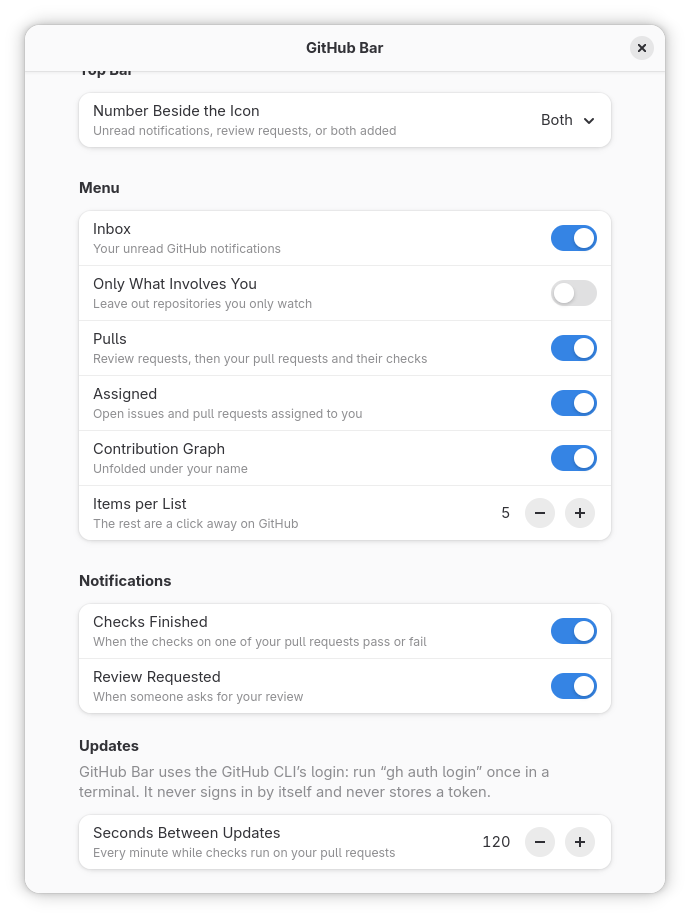
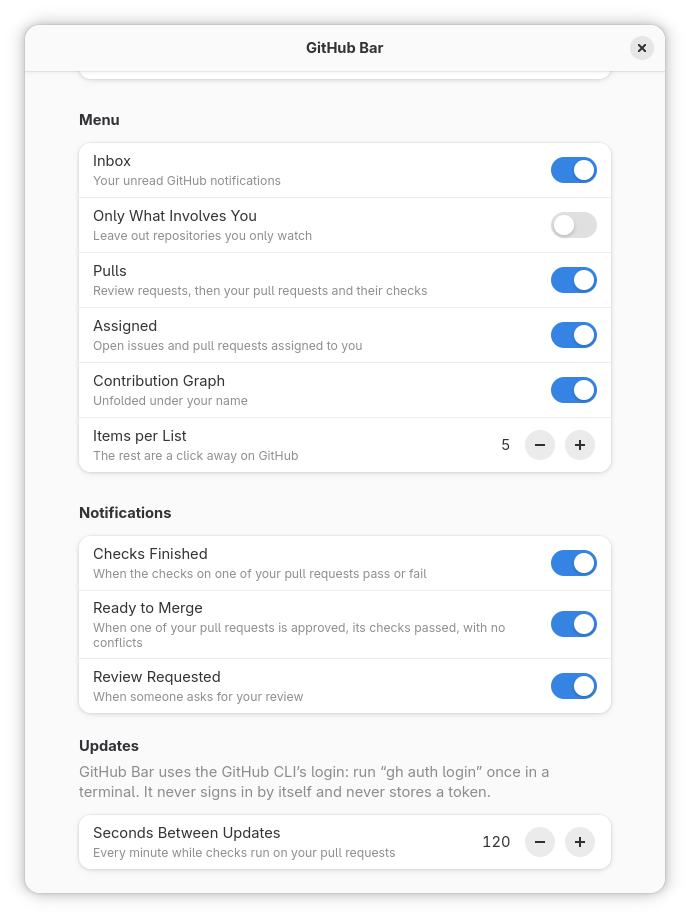
Notify when a pull request is ready to merge, and tag conflicts (#22)
Fixes #17

diff --git a/src/lib/app.js b/src/lib/app.js
@@ -209,22 +209,26 @@ export class GitHubBarApp {
                 for (const item of reviews.filter(review => !this._known.reviews.has(review.url)))
                     this._notify(`Review requested on ${item.repo}#${item.number}`, item.title, item.url);
             }
-            if (this._settings.get_boolean('notify-checks')) {
-                for (const pull of pulls) {
-                    const before = this._known.checks.get(pull.url);
-                    if (before?.oid !== pull.headOid || before.checks !== 'pending')
-                        continue;
+            const notifyReady = this._settings.get_boolean('notify-ready');
+            const notifyChecks = this._settings.get_boolean('notify-checks');
+            for (const pull of pulls) {
+                const before = this._known.pulls.get(pull.url);
+                const name = `${pull.repo}#${pull.number}`;
+                // Ready to merge says checks passed too, so it stands in for that notification.
+                if (notifyReady && before && pull.ready && !before.ready) {
+                    this._notify(`Ready to merge: ${name}`, pull.title, pull.url);
+                } else if (notifyChecks && before?.oid === pull.headOid && before.checks === 'pending') {
                     if (pull.checks === 'success')
-                        this._notify(`Checks passed on ${pull.repo}#${pull.number}`, pull.title, pull.url);
+                        this._notify(`Checks passed on ${name}`, pull.title, pull.url);
                     else if (pull.checks === 'failure')
-                        this._notify(`Checks failed on ${pull.repo}#${pull.number}`, pull.title, pull.url);
+                        this._notify(`Checks failed on ${name}`, pull.title, pull.url);
                 }
             }
         }
         this._known = {
             login: dashboard.user.login,
             reviews: new Set(reviews.map(review => review.url)),
-            checks: new Map(pulls.map(pull => [pull.url, {oid: pull.headOid, checks: pull.checks}])),
+            pulls: new Map(pulls.map(pull => [pull.url, {oid: pull.headOid, checks: pull.checks, ready: pull.ready}])),
         };
     }
 

diff --git a/src/lib/github.js b/src/lib/github.js
@@ -13,7 +13,7 @@ const QUERY = `query {
     issueCount nodes { ... on PullRequest { number title url updatedAt isDraft
       repository { nameWithOwner } author { login } } } }
   pulls: search(type: ISSUE, query: "is:open is:pr author:@me archived:false", first: 20) {
-    issueCount nodes { ... on PullRequest { number title url updatedAt isDraft reviewDecision
+    issueCount nodes { ... on PullRequest { number title url updatedAt isDraft reviewDecision mergeable
       repository { nameWithOwner }
       commits(last: 1) { nodes { commit { oid statusCheckRollup { state } } } } } } }
   assigned: search(type: ISSUE, query: "is:open assignee:@me archived:false", first: 20) {
@@ -48,9 +48,15 @@ const KINDS = {PullRequest: 'pull', Issue: 'issue'};
 
 const PATHS = {pulls: 'pull', issues: 'issues', commits: 'commit'};
 
+// Approved, checks passed or none, no conflicts, not a draft.
+function isReady(item) {
+    return !item.draft && !item.conflicts && item.review === 'approved' &&
+        (item.checks === 'success' || item.checks === null);
+}
+
 function parseItem(node) {
     const commit = node.commits?.nodes[0]?.commit;
-    return {
+    const item = {
         kind: node.__typename === 'Issue' ? 'issue' : 'pull',
         repo: node.repository.nameWithOwner,
         number: node.number,
@@ -62,7 +68,11 @@ function parseItem(node) {
         checks: CHECKS[commit?.statusCheckRollup?.state] ?? null,
         review: REVIEWS[node.reviewDecision] ?? null,
         headOid: commit?.oid ?? null,
+        // GitHub answers UNKNOWN while it works the merge out; that is not a conflict.
+        conflicts: node.mergeable === 'CONFLICTING',
     };
+    item.ready = isReady(item);
+    return item;
 }
 
 // A search node outside the fragment's type comes back as {}.

diff --git a/scripts/stand-in-http.js b/scripts/stand-in-http.js
@@ -26,6 +26,7 @@ const CHECKS = {
     'checks-pending': 'PENDING',
     'checks-passed': 'SUCCESS',
     'checks-failed': 'FAILURE',
+    'ready': 'SUCCESS',
 };
 
 function readState() {
@@ -138,15 +139,18 @@ function dashboard(state) {
             ]),
             pulls: search([
                 pull('stand-in/garden', 42, 'Water the seedlings on a timer', 8, {
-                    reviewDecision: 'REVIEW_REQUIRED',
+                    reviewDecision: state === 'ready' ? 'APPROVED' : 'REVIEW_REQUIRED',
+                    mergeable: 'MERGEABLE',
                     ...head('4b1d0c6e2f9a7d3b8e5c1a0f6d2b9e7c3a8f5d14', CHECKS[state] ?? 'PENDING'),
                 }),
                 pull('stand-in/lantern', 23, 'Dim the wick when the battery is low', 95, {
                     reviewDecision: 'APPROVED',
+                    mergeable: 'MERGEABLE',
                     ...head('9e3a7c1f5b2d8e6a0c4f7b1d3e9a5c2f8b6d0e13', 'SUCCESS'),
                 }),
                 pull('stand-in/garden', 39, 'Sort the beds by hours of sunlight', 300, {
                     reviewDecision: 'CHANGES_REQUESTED',
+                    mergeable: 'CONFLICTING',
                     ...head('2c8f6a0e4d1b7c9f3a5e8d2b6c0f4a7e1d9b3c58', 'FAILURE'),
                 }),
                 pull('stand-in/kettle', 7, 'Whistle at a lower pitch', 2880, {

diff --git a/src/lib/indicator.js b/src/lib/indicator.js
@@ -18,7 +18,7 @@ const DIM_OPACITY = 160;
 
 // Your pull requests that wait on you rather than on others.
 function needsYou(pull) {
-    return pull.checks === 'failure' || pull.review === 'changes';
+    return pull.checks === 'failure' || pull.review === 'changes' || pull.conflicts;
 }
 
 // Each tab lists one or more groups of the dashboard, and counts what waits on you there.
@@ -376,7 +376,13 @@ export const GitHubBarIndicator = GObject.registerClass({
         else if (entry.checks)
             icon.add_style_class_name(`github-bar-${entry.checks}`);
 
-        const tag = entry.draft ? 'Draft' : REVIEW_TAGS[entry.review];
+        let tag = REVIEW_TAGS[entry.review];
+        if (entry.draft)
+            tag = 'Draft';
+        else if (entry.conflicts)
+            tag = 'Conflicts';
+        else if (entry.ready)
+            tag = 'Ready to merge';
         const item = linkItem(icon, entry.title, [`${entry.repo} #${entry.number}`, ago(entry.updated)], tag);
         item.connect('activate', () => this.emit('open-url', entry.url));
         return item;

diff --git a/scripts/parsers.js b/scripts/parsers.js
@@ -56,6 +56,10 @@ print('\x1b[1mThe dashboard\x1b[0m — tests/fixtures/graphql.json');
     check('review CHANGES_REQUESTED', pulls.items[2].review, 'changes');
     check('no review decision', pulls.items[3].review, null);
     check('head commit', pulls.items[0].headOid, 'a1b2c3d');
+    check('CONFLICTING conflicts', pulls.items[0].conflicts, true);
+    check('approved and passed is ready', pulls.items[1].ready, true);
+    check('pending checks are not ready', pulls.items[0].ready, false);
+    check('a draft is not ready', pulls.items[2].ready, false);
     check('repo', pulls.items[0].repo, 'stand-in/garden');
     check('assigned issue kind', assigned.items[0].kind, 'issue');
     check('assigned pull kind', assigned.items[1].kind, 'pull');

diff --git a/src/prefs.js b/src/prefs.js
@@ -51,6 +51,8 @@ export default class GitHubBarPreferences extends ExtensionPreferences {
         const notify = new Adw.PreferencesGroup({title: 'Notifications'});
         this._addSwitch(notify, settings, 'notify-checks', 'Checks Finished',
             'When the checks on one of your pull requests pass or fail');
+        this._addSwitch(notify, settings, 'notify-ready', 'Ready to Merge',
+            'When one of your pull requests is approved, its checks passed, with no conflicts');
         this._addSwitch(notify, settings, 'notify-reviews', 'Review Requested',
             'When someone asks for your review');
         page.add(notify);

diff --git a/README.md b/README.md
@@ -17,18 +17,21 @@ GNOME Shell.
   beside a row (or Delete) marks it read without opening it. It can leave out
   what you only watch.
 - **Pulls**: open pull requests that ask for your review, then your own, each with its
-  checks (running, passed, failed) and review state. The tab counts what waits on you:
-  review requests, and your pull requests with failed checks or changes asked for. The
+  checks (running, passed, failed) and its state (Ready to merge, Needs changes,
+  Conflicts, Draft). The tab counts what waits on you:
+  review requests, and your pull requests with failed checks, changes asked for or
+  conflicts. The
   count turns red while checks have failed.
 - **Assigned**: open issues and pull requests assigned to you.
 - **Your contributions**: a click on your name unfolds the last weeks of your calendar, in
   the accent colour, and a link to your profile.
 - **Notifications on your desktop** when the checks on one of your pull requests finish,
-  and when someone asks for your review.
+  when one is ready to merge (approved, checks passed, no conflicts), and when someone
+  asks for your review.
 
 ![The top bar's right end: the pull request glyph and the count 8, beside the system icons.](docs/screenshots/top-bar-cropped.png)
 
-![The same menu with the profile unfolded, the contribution calendar in blue and Open Profile on GitHub under the name, and the Pulls tab selected (its count 3 in red): two review requests and four of your pull requests: one with checks running, one with checks passed and "Approved", one with checks failed and "Needs changes", and one "Draft".](docs/screenshots/menu-profile.png)
+![The same menu with the profile unfolded, the contribution calendar in blue and Open Profile on GitHub under the name, and the Pulls tab selected (its count 3 in red): two review requests and four of your pull requests: one with checks running, one with checks passed and "Ready to merge", one with checks failed and "Conflicts", and one "Draft".](docs/screenshots/menu-profile.png)
 
 ![A notification banner: "Checks passed on stand-in/garden#42", with the pull request's title "Water the seedlings on a timer".](docs/screenshots/notification.png)
 
@@ -88,12 +91,13 @@ Open them from the Extensions app, or with `gnome-extensions prefs github-bar@ja
 
 | | |
 |---|---|
-| ![The preferences, top: Number Beside the Icon set to Both, then the Menu group with a switch for each tab and the contribution graph, all on, Only What Involves You off, and Items per List at 5.](docs/screenshots/preferences.png) | ![The preferences, bottom: the Notifications group with Checks Finished and Review Requested on, then Updates, which says GitHub Bar uses the GitHub CLI's login, and Seconds Between Updates at 120.](docs/screenshots/preferences-notifications.png) |
+| ![The preferences, top: Number Beside the Icon set to Both, then the Menu group with a switch for each tab and the contribution graph, all on, Only What Involves You off, and Items per List at 5.](docs/screenshots/preferences.png) | ![The preferences, bottom: the Notifications group with Checks Finished, Ready to Merge and Review Requested on, then Updates, which says GitHub Bar uses the GitHub CLI's login, and Seconds Between Updates at 120.](docs/screenshots/preferences-notifications.png) |
 
 - **Number Beside the Icon**: unread notifications, review requests, both added, or none.
 - **Menu**: each list on or off, the inbox limited to what involves you (a tab with none on is hidden), the contribution graph,
   and how many items each list shows.
-- **Notifications**: when checks finish, when your review is requested.
+- **Notifications**: when checks finish, when a pull request is ready to merge, when your
+  review is requested.
 - **Seconds Between Updates**: 60 to 3600.
 
 ## Troubleshooting

diff --git a/CLAUDE.md b/CLAUDE.md
@@ -56,7 +56,9 @@ docs/publishing.md      the zip, and how it meets the extensions.gnome.org revie
   after gh rewrites `hosts.yml` (sign in, sign out). The timer is one-shot, re-armed after
   each fetch.
 * **Notifications**: the first good fetch after enable only learns what is there. Checks
-  notify on pending → success/failure for the same head commit; a review request notifies
+  notify on pending → success/failure for the same head commit; a pull request becoming
+  ready (`ready` in `github.js`: approved, checks passed or none, not `CONFLICTING`, not a
+  draft) notifies "Ready to merge" in place of "Checks passed"; a review request notifies
   once per pull request seen. A change of account relearns without notifying. A screen
   lock disables, so an unlock forgets and relearns.
 * **The menu** is fixed items updated in place: a status caption, the user row (a
@@ -65,7 +67,7 @@ docs/publishing.md      the zip, and how it meets the extensions.gnome.org revie
   and Open Profile on GitHub), and a strip of three tabs (`TABS`: Inbox, Pulls, Assigned),
   St.Buttons in the theme's `button` style, `flat` but for the selected one, each with the
   count of what waits on you there (Pulls: review requests, and your pull requests with
-  failed checks or changes requested; red while checks have failed). Only the
+  failed checks, changes requested or conflicts; red while checks have failed). Only the
   selected tab's list is rebuilt, inside an `St.ScrollView` that replaces a
   `PopupMenuSection`'s actor, as the shell's `PopupSubMenu` does (with the `_delegate` set,
   or the menu never sees the section and leaks it on disable); keyboard focus scrolls itself
@@ -84,7 +86,7 @@ docs/publishing.md      the zip, and how it meets the extensions.gnome.org revie
 
 `count` (`both`, `notifications`, `reviews`, `none`), `participating`, `show-pulls`,
 `show-assigned`, `show-notifications`, `show-graph`, `max-items` (5), `notify-checks`,
-`notify-reviews`, `poll-seconds` (120, 60–3600).
+`notify-ready`, `notify-reviews`, `poll-seconds` (120, 60–3600).
 
 ## Private shell API
 
@@ -107,7 +109,7 @@ it (a leak per disable).
   not under it) and stages `./scripts/stand-in-http.js` over `lib/http.js`. The nested
   session has no keyring, so a plain `start` shows "signed out". `./scripts/nested.sh
   state STATE` puts the stand-in account in `ok`, `empty`, `unauthorized`, `offline`,
-  `error`, `checks-pending`, `checks-passed`, `checks-failed`, `signed-out` or
+  `error`, `checks-pending`, `checks-passed`, `checks-failed`, `ready`, `signed-out` or
   `signed-in`, and the app re-reads on the `hosts.yml` rewrite. Driving it: the
   `drive-extension` skill.
 * `./scripts/nested.sh shots [--light] [--out DIR]` (`make shots`,

diff --git a/.claude/skills/drive-extension/SKILL.md b/.claude/skills/drive-extension/SKILL.md
@@ -27,9 +27,10 @@ steps and its settings are there. This is what is particular to GitHub Bar.
   and the user row are safe. The driver has no Delete key; BackSpace stands in only if the
   code is changed for the test.
 - **States**: `./scripts/nested.sh state STATE` (`ok`, `empty`, `unauthorized`, `offline`,
-  `error`, `signed-out`, `signed-in`, `checks-pending`, `checks-passed`, `checks-failed`);
-  the app re-reads about 2 s later. `checks-pending` then `checks-passed` shows the "Checks
-  passed on stand-in/garden#42" banner at the top centre. Marked-read threads stay read
+  `error`, `signed-out`, `signed-in`, `checks-pending`, `checks-passed`, `checks-failed`,
+  `ready`); the app re-reads about 2 s later. `checks-pending` then `checks-passed` shows
+  the "Checks passed on stand-in/garden#42" banner at the top centre, `checks-pending` then
+  `ready` the "Ready to merge" one instead. Marked-read threads stay read
   until the next `start`.
 - **Its settings**: `./scripts/nested.sh run timeout 5 gsettings --schemadir src/schemas set
   org.gnome.shell.extensions.github-bar count none` (after `glib-compile-schemas
